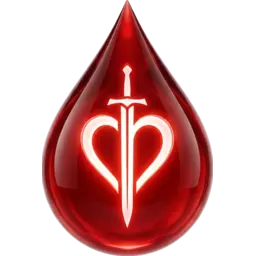
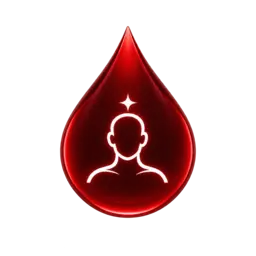
Ascendances : nouvelles gouttes d'Idan, fondu sur la goutte rubis, halo animé
- Les 11 gouttes à emblème d'Idan (Hostinger media/pictos/Ascendance), la goutte
  rubis, la goutte sombre (basique) et le halo animé remplacent les anciens Asc_*.jpg.
- Une goutte d'ascendance = trois calques : halo animé en boucle derrière, goutte
  rubis, puis la goutte à emblème qui apparaît en fondu d'une seconde. Pas de fondu
  rejoué quand le jeu redessine un écran déjà affiché.
- Le halo partout où la goutte est utilisée ; « Aucune » dans la création = goutte sombre.
- La création du capitaine utilise le même composant que le jeu (picto-ui.js +
  pictos.css) au lieu de construire ses propres images.

Claude-Session: https://claude.ai/code/session_01EeJJTXzBZEvAnWuDndFYuJ

diff --git a/prototype-web/creation-capitaine.js b/prototype-web/creation-capitaine.js
@@ -74,11 +74,11 @@ const roueLecture=(it,u)=>`<div class="rl-f"><b>Forces</b><p>${txt(it?.f||"")}</
 // Ce que chaque écran à choix propose : valeur, nom, image, textes ; lignes réservées (lt : description, lc : colonnes).
 const CHOIX={
   people:{attr:"people",cur:()=>S.people,lignes:1,lt:2,lc:2,
-    list:()=>DATA.peoples.map(p=>({v:p.nom,nom:p.nom,img:p.img,...p.copy}))},
+    list:()=>DATA.peoples.map(p=>({v:p.nom,nom:p.nom,pic:"people",...p.copy}))},
   culture:{attr:"culture",cur:()=>S.culture,lignes:2,lt:2,lc:3,
-    list:()=>(peopleOf()?.cultures||[]).map(c=>({v:c.nom,nom:c.nom,img:c.img,...c.copy}))},
+    list:()=>(peopleOf()?.cultures||[]).map(c=>({v:c.nom,nom:c.nom,pic:"culture",...c.copy}))},
   ascendance:{attr:"ascendance",cur:()=>S.ascendance,lignes:1,lt:2,lc:2,
-    list:()=>["",...(peopleOf()?.ascendances||[])].map(a=>a?{v:a,nom:a,img:medaillon("ascendance",a),...DATA.ancestryCopy[a]}:{v:"",nom:"Aucune",img:null,d:"Le sang de votre peuple, sans mélange."})},
+    list:()=>["",...(peopleOf()?.ascendances||[])].map(a=>a?{v:a,nom:a,pic:"ascendance",...DATA.ancestryCopy[a]}:{v:"",nom:"Aucune",pic:"ascendance",aucune:true,d:"Le sang de votre peuple, sans mélange."})},
   origin:{attr:"origin",cur:()=>S.origin,lecture:{titre:false},
     list:()=>(cultureOf()?.origins||[]).map(o=>({v:o,nom:ORIGIN_LABELS[o]||o,...DATA.originCopy[o]}))},
   alignment:{attr:"alignment",cur:()=>S.alignment,
@@ -89,7 +89,9 @@ const CHOIX={
       t?.parentElement.classList.toggle("apercu",(v!=null&&v!==S.avatar)||S.avatar==null); }},
 };
 const itemOf=(key,v)=>CHOIX[key].list().find(x=>x.v===v)||null;
-const medaillon=(kind,nom)=>`assets/pictos/${kind}-${slug(nom)}.webp`;
+// Les médaillons de peuple, de culture et d'ascendance : le picto du jeu (picto-ui.js), sans bulle (la fiche sur le
+// parchemin explique) ; la goutte sombre pour « Aucune » ascendance (Idan, 2026-11-15).
+const medaillon=x=>renderPicto(x.pic,x.v,{size:null,tip:false,none:Boolean(x.aucune)});
 // Les grands parchemins font la largeur de la bande des étapes (de « Nom » à « Récap »), mesurée par ajusteZoom.
 const BANDE="var(--bande,1200px)";
 // La compagnie : nom par défaut (le texte d'exemple du champ), soixante blasons.
@@ -114,7 +116,7 @@ document.addEventListener("focusin",e=>{ const m=e.target.closest?.("[data-lire]
 function ecranMedailles(key){
   const c=CHOIX[key],list=c.list(),cur=c.cur(),n=list.length,cols=n>6?Math.ceil(n/2):n,it=itemOf(key,cur);
   return `<div class="ecran" style="--l:860px;--lt:${c.lt};--lc:${c.lc}">
-    <div class="medailles lecture" style="--c:${cols};--w:${n===6?140:166}px;--p:${n===6?134:140}px;--lignes:${c.lignes}" role="group">${list.map((x,i)=>`<button type="button" class="medaille" style="--i:${i}" data-${c.attr}="${esc(x.v)}" data-lire="${esc(x.v)}" aria-pressed="${cur===x.v}">${x.img?`<img src="${x.img}" alt="">`:`<span class="aucune" aria-hidden="true"><i></i></span>`}<span class="nom">${txt(x.nom)}</span></button>`).join("")}</div>
+    <div class="medailles lecture" style="--c:${cols};--w:${n===6?140:166}px;--p:${n===6?134:140}px;--lignes:${c.lignes}" role="group">${list.map((x,i)=>`<button type="button" class="medaille" style="--i:${i}" data-${c.attr}="${esc(x.v)}" data-lire="${esc(x.v)}" aria-pressed="${cur===x.v}">${medaillon(x)}<span class="nom">${txt(x.nom)}</span></button>`).join("")}</div>
     <div class="parch fiche${it?"":" vide"}" id="fiche" aria-live="polite"><div id="lecture">${lectureHtml(it)}</div>${navHtml(STEPS[S.step].ok())}</div>
   </div>`;
 }
@@ -200,7 +202,7 @@ const RENDER={
   recap(){
     const w=S.weapon,sp=SPIRITS[S.spirit],tr=TRAITS[S.trait],ar=ARMORS.find(x=>x.key===S.armor);
     const p=peopleOf(),c=cultureOf(),nom=[S.prenom.trim(),S.nom.trim()].filter(Boolean).join(" ")||"—";
-    const picto=(img,label)=>`<figure>${img?`<img src="${img}" alt="">`:`<span class="aucune"></span>`}<figcaption>${txt(label)}</figcaption></figure>`;
+    const picto=(kind,nom)=>`<figure>${renderPicto(kind,nom,{size:null,tip:false})}<figcaption>${txt(nom)}</figcaption></figure>`;
     const rows=[["Origine",ORIGIN_LABELS[S.origin]||S.origin],["Alignement",S.alignment],["Arme favorite",w],
       ["Tenue",ar&&`<q>${txt(ar.q)}</q>`],["Esprit",sp&&`<q>${txt(sp.q)}</q>`],["Caractère",tr&&`<q>${txt(tr.q)}</q>`]];
     // Signé : le cachet se pose, puis la partie commence (le bouton y mène aussitôt).
@@ -208,7 +210,7 @@ const RENDER={
     return formulaire("Registre des capitaines",`<div class="registre2">
         <figure class="tableau"><span class="toile" style="${S.avatar?piedStyle(S.avatar):""}"></span></figure>
         <div><h2 class="r-entete"><span>Capitaine ${txt(nom)}</span></h2><div class="r-cols">
-        <section><div class="r-pictos">${p?picto(p.img,p.nom):""}${c?picto(c.img,c.nom):""}${S.ascendance?picto(medaillon("ascendance",S.ascendance),S.ascendance):""}</div>
+        <section><div class="r-pictos">${p?picto("people",p.nom):""}${c?picto("culture",c.nom):""}${S.ascendance?picto("ascendance",S.ascendance):""}</div>
           <dl>${rows.map(([k,v])=>`<dt>${k}</dt><dd>${v&&String(v).startsWith("<q>")?v:txt(v||"—")}</dd>`).join("")}</dl>
           <div class="signature"><span class="${S.signature?"trace":""}">${S.signe?txt(nom):""}</span><small>Signature</small></div></section>
         <i></i>

diff --git a/prototype-web/picto-ui.js b/prototype-web/picto-ui.js
@@ -4,6 +4,8 @@
 // scripts/build-pictos.sh). Le fichier porte le « slug » du nom de référence :
 // « Sang d’elfe » → assets/pictos/ascendance-sang-d-elfe.webp. Purement visuel.
 // Écoles de magie (Idan, 2026-11-15) : « Feu » → assets/pictos/ecole-feu.webp.
+// Le même composant pour tout le jeu, création du capitaine comprise (Idan, 2026-11-15 : « La création du capitaine
+// construit ses propres images : C'est pas normal ») ; ses styles communs : pictos.css.
 const PICTO_KINDS={people:"peuple",culture:"culture",ascendance:"ascendance",school:"ecole"};
 
 function pictoSlug(name){
@@ -26,13 +28,43 @@ function pictoDescription(kind,name){
   return rows.find(r=>r.nom===name)?.description||"";
 }
 
-// <img> prêt à insérer, ou "" sans nom (pas d'ascendance). Une image manquante se masque.
-function renderPicto(kind,name,{size="sm"}={}){
+// Les gouttes d'ascendance (Idan, 2026-11-15) : « la goutte arrive toujours par opacité d'une seconde sur la goutte rubis
+// puis on fait jouer en boucle le webp derrière pour faire le halo » ; le halo partout où l'on voit la goutte (« On tente
+// d'utiliser le halo magique partout ou on utilise la goutte de sang ») ; la goutte sombre pour « Aucune » ascendance.
+const PICTO_GOUTTE={halo:"assets/pictos/goutte-halo.webp",rubis:"assets/pictos/goutte-rubis.webp",sombre:"assets/pictos/goutte-sombre.webp"};
+
+// Le picto prêt à insérer, ou "" sans nom (pas d'ascendance). Une image manquante se masque.
+// size : xs, sm, md… (styles.css), ou null pour laisser la page le dimensionner (création du capitaine) ;
+// tip : false, sans la bulle au survol ; none : true, la goutte sombre d'une ascendance absente (« Aucune »).
+function renderPicto(kind,name,{size="sm",tip=true,none=false}={}){
+  const attr=text=>String(text).replace(/[&<>"]/g,ch=>({"&":"&amp;","<":"&lt;",">":"&gt;",'"':"&quot;"}[ch]));
+  const cls="picto"+(size?" picto-"+size:"");
+  if(kind==="ascendance"&&none) return `<img class="${cls} picto-goutte-sombre" src="${PICTO_GOUTTE.sombre}" alt="" loading="lazy">`;
   const src=pictoPath(kind,name);
   if(!src) return "";
-  const attr=text=>String(text).replace(/[&<>"]/g,ch=>({"&":"&amp;","<":"&lt;",">":"&gt;",'"':"&quot;"}[ch]));
-  return `<img class="picto picto-${size}" src="${src}" alt="" data-picto-kind="${kind}" data-picto-name="${attr(name)}" loading="lazy" onerror="this.remove()">`;
+  const data=` data-picto-kind="${kind}"`+(tip?` data-picto-name="${attr(name)}"`:"");
+  if(kind==="ascendance"){
+    return `<span class="${cls} picto-goutte"${data} data-goutte="${pictoSlug(name)}">`
+      +`<img class="goutte-halo" src="${PICTO_GOUTTE.halo}" alt="" loading="lazy">`
+      +`<img class="goutte-rubis" src="${PICTO_GOUTTE.rubis}" alt="" loading="lazy">`
+      +`<img class="goutte-embleme" src="${src}" alt="" loading="lazy" onerror="this.remove()"></span>`;
+  }
+  return `<img class="${cls}" src="${src}" alt=""${data} loading="lazy" onerror="this.remove()">`;
 }
+
+// Le fondu de l'emblème joue quand la goutte apparaît, pas quand le jeu redessine un écran déjà affiché : une goutte qui
+// remplace, dans la même mise à jour, une goutte de la même ascendance arrive sans fondu (is-still, pictos.css).
+function watchGouttes(root){
+  if(typeof MutationObserver==="undefined"||!root) return;
+  const gouttes=node=>node.nodeType!==1?[]:[...(node.matches(".picto-goutte")?[node]:[]),...node.querySelectorAll(".picto-goutte")];
+  new MutationObserver(records=>{
+    const gone=new Set();
+    for(const r of records) for(const n of r.removedNodes) for(const g of gouttes(n)) gone.add(g.dataset.goutte);
+    if(!gone.size) return;
+    for(const r of records) for(const n of r.addedNodes) for(const g of gouttes(n)) if(gone.has(g.dataset.goutte)) g.classList.add("is-still");
+  }).observe(root,{childList:true,subtree:true});
+}
+if(typeof document!=="undefined") watchGouttes(document.documentElement);
 
 function pictoTipElement(){
   let tip=document.getElementById("picto-tip");
@@ -69,4 +101,4 @@ function initializePictoTips(){
 }
 if(typeof document!=="undefined") initializePictoTips();
 
-if(typeof module!=="undefined"&&module.exports) module.exports={pictoSlug,pictoPath,renderPicto,pictoDescription};
+if(typeof module!=="undefined"&&module.exports) module.exports={pictoSlug,pictoPath,renderPicto,pictoDescription,PICTO_GOUTTE};

diff --git a/prototype-web/creation-capitaine.css b/prototype-web/creation-capitaine.css
@@ -150,17 +150,15 @@ body.entree .cachet{animation:sceller .55s var(--r3) cubic-bezier(.3,.6,.3,1) bo
 .medailles{position:relative;display:grid;grid-template-columns:repeat(var(--c,5),var(--w,150px));gap:14px 10px;justify-content:center;isolation:isolate}
 .medailles::before{content:"";position:absolute;inset:-26px -70px;z-index:-1;pointer-events:none;background:radial-gradient(closest-side,rgba(10,7,5,.62),rgba(7,5,4,.35) 60%,transparent)}
 .medaille{all:unset;cursor:pointer;display:grid;justify-items:center;align-content:start;gap:8px}
-.medaille img,.medaille .aucune{display:block;width:var(--p,140px);height:var(--p,140px);filter:saturate(.75) brightness(.84) drop-shadow(0 8px 9px rgba(0,0,0,.65));transition:filter .2s}
-.medaille .aucune{display:grid;place-items:center}
-.medaille .aucune::before{content:"";width:62px;height:62px;box-sizing:border-box;border-radius:50%;border:2px solid rgba(201,164,97,.55);background:radial-gradient(circle,rgba(30,22,16,.85),rgba(7,5,4,.94));box-shadow:inset 0 0 14px rgba(0,0,0,.85)}
-.medaille .aucune i{display:none}
-.medaille .aucune{position:relative}
+/* Le médaillon : le picto du jeu (picto-ui.js, pictos.css), une goutte animée pour les ascendances, la goutte sombre pour
+   « Aucune » (Idan, 2026-11-15). */
+.medaille .picto{display:block;width:var(--p,140px);height:var(--p,140px);filter:saturate(.75) brightness(.84) drop-shadow(0 8px 9px rgba(0,0,0,.65));transition:filter .2s}
 .medaille .nom{display:flex;align-items:flex-start;justify-content:center;height:calc(var(--lignes,1) * 1.12em);max-width:100%;text-align:center;text-wrap:balance;
   font:600 19px/1.12 var(--police-texte);color:var(--texte-inactif);text-shadow:0 2px 5px #000;transition:color .2s,text-shadow .2s}
-.medaille:hover img,.medaille:focus-visible img,.medaille:hover .aucune,.medaille:focus-visible .aucune{filter:saturate(1) brightness(1) drop-shadow(0 0 6px rgba(240,211,149,.35)) drop-shadow(0 8px 9px rgba(0,0,0,.65))}
+.medaille:hover .picto,.medaille:focus-visible .picto{filter:saturate(1) brightness(1) drop-shadow(0 0 6px rgba(240,211,149,.35)) drop-shadow(0 8px 9px rgba(0,0,0,.65))}
 .medaille:hover .nom,.medaille:focus-visible .nom{color:var(--ivoire)}
 .medaille:focus-visible{outline:none}
-.medaille[aria-pressed="true"] img,.medaille[aria-pressed="true"] .aucune{filter:saturate(1.05) brightness(1.08) drop-shadow(0 0 4px #ffe1ac) drop-shadow(0 0 14px rgba(240,211,149,.75)) drop-shadow(0 0 30px rgba(240,192,80,.4))}
+.medaille[aria-pressed="true"] .picto{filter:saturate(1.05) brightness(1.08) drop-shadow(0 0 4px #ffe1ac) drop-shadow(0 0 14px rgba(240,211,149,.75)) drop-shadow(0 0 30px rgba(240,192,80,.4))}
 .medaille[aria-pressed="true"] .nom{color:#f4e5c7;text-shadow:0 0 8px rgba(240,211,149,.85),0 0 18px rgba(240,211,149,.45),0 1px 3px #000}
 body.entree .medaille{animation:monte .55s calc(var(--r2) + var(--i) * 45ms) cubic-bezier(.2,.7,.2,1) both}
 
@@ -305,7 +303,7 @@ body.entree .carre{animation:monte .5s calc(var(--r2) + var(--i) * 35ms) cubic-b
 .r-titre{margin:0 0 10px;font:700 12.5px/1 var(--police-titre);letter-spacing:.16em;text-transform:uppercase;color:var(--encre-secondaire)}
 .r-pictos{display:flex;gap:18px;margin:0 0 30px}
 .r-pictos figure{margin:0;display:grid;justify-items:center;gap:5px;width:96px}
-.r-pictos img,.r-pictos .aucune{width:64px;height:64px;object-fit:contain;filter:drop-shadow(0 4px 5px rgba(40,22,8,.45))}
+.r-pictos .picto{display:block;width:64px;height:64px;object-fit:contain;filter:drop-shadow(0 4px 5px rgba(40,22,8,.45))}
 .r-pictos figcaption{font:600 15px/1.15 var(--police-texte);color:var(--encre);text-align:center;text-wrap:balance}
 .registre2 dl{margin:0;display:grid;grid-template-columns:auto 1fr;gap:6px 16px;align-items:baseline}
 .registre2 dt{font:700 11.5px/1.3 var(--police-titre);letter-spacing:.12em;text-transform:uppercase;color:var(--encre-secondaire)}

diff --git a/tests/pictos.test.js b/tests/pictos.test.js
@@ -19,6 +19,21 @@ assert.match(renderPicto("people","Nain",{size:"md"}),/class="picto picto-md" sr
 // Au survol (Idan, 2026-10-25) : nom et phrase d'explication, dans une bulle du jeu (plus de title du navigateur).
 assert.match(renderPicto("culture","Cités libres"),/data-picto-kind="culture" data-picto-name="Cités libres"/);
 assert.doesNotMatch(renderPicto("culture","Cités libres"),/title=/);
+// Une ascendance : la goutte en trois calques (halo animé, goutte rubis, emblème) ; « Aucune » : la goutte sombre ; sans
+// taille, la page dimensionne ; sans bulle, pas de data-picto-name (Idan, 2026-11-15).
+const goutte=renderPicto("ascendance","Sang de dragon",{size:"md"});
+assert.match(goutte,/^<span class="picto picto-md picto-goutte" data-picto-kind="ascendance" data-picto-name="Sang de dragon" data-goutte="sang-de-dragon">/);
+assert.deepEqual([...goutte.matchAll(/<img class="([^"]+)" src="([^"]+)"/g)].map(m=>m[1]+" "+m[2]),[
+  "goutte-halo assets/pictos/goutte-halo.webp","goutte-rubis assets/pictos/goutte-rubis.webp","goutte-embleme assets/pictos/ascendance-sang-de-dragon.webp"]);
+assert.match(renderPicto("ascendance","",{none:true,size:null}),/^<img class="picto picto-goutte-sombre" src="assets\/pictos\/goutte-sombre\.webp"/);
+assert.doesNotMatch(renderPicto("people","Nain",{size:null,tip:false}),/data-picto-name|picto-sm/);
+const css=fs.readFileSync(path.join(ROOT,"prototype-web","pictos.css"),"utf8");
+assert.match(css,/\.picto-goutte>\.goutte-embleme\{animation:goutte-apparait 1s/,"l'emblème arrive en une seconde");
+assert.match(css,/\.picto-goutte\.is-still>\.goutte-embleme\{animation:none\}/,"pas de fondu quand le jeu redessine");
+for(const page of ["index.html","creation-capitaine.html"]){
+  const html=fs.readFileSync(path.join(ROOT,"prototype-web",page),"utf8");
+  assert.ok(html.includes('href="pictos.css"')&&html.includes('src="picto-ui.js"'),page+" : le même composant de pictos");
+}
 global.game={referenceData:{captainCreationCopy:JSON.parse(fs.readFileSync(path.join(ROOT,"data","reference","captain-creation-copy.json"),"utf8"))}};
 assert.match(pictoDescription("people","Humain"),/^Polyvalent et adaptable/);
 assert.ok(pictoDescription("ascendance","Sang divin"));
@@ -38,6 +53,9 @@ const expected=[
   ...names("ancestries.json").map(n=>pictoPath("ascendance",n)),
   ...[...new Set(JSON.parse(fs.readFileSync(path.join(ROOT,"data","reference","spells.json"),"utf8")).rows.map(r=>r.ecole).filter(Boolean))].map(n=>pictoPath("school",n))
 ];
+// Les trois calques des gouttes d'ascendance (Idan, 2026-11-15) : le halo animé, la goutte rubis, la goutte sombre.
+const {PICTO_GOUTTE}=require("../prototype-web/picto-ui.js");
+expected.push(...Object.values(PICTO_GOUTTE));
 const dir=path.join(ROOT,"prototype-web","assets","pictos");
 for(const p of expected) assert.ok(fs.existsSync(path.join(ROOT,"prototype-web",p)),"picto manquant : "+p);
 const files=fs.readdirSync(dir).map(f=>"assets/pictos/"+f).sort();

diff --git a/prototype-web/intro-ui.js b/prototype-web/intro-ui.js
@@ -82,11 +82,10 @@ function captainCreationData(){
   const ref=game.referenceData||{},copy=ref.captainCreationCopy||{};
   const texts=(section,name)=>{ const r=(copy[section]||[]).find(x=>x.nom===name); return r?{d:r.description,f:r.force,w:r.faiblesse}:{}; };
   const bySection=section=>Object.fromEntries((copy[section]||[]).map(r=>[r.nom,texts(section,r.nom)]));
-  const medallion=(kind,name)=>`assets/pictos/${kind}-${pictoSlug(name)}.webp`;
   return {
-    peoples:peopleNames().map(people=>({nom:people,img:medallion("peuple",people),copy:texts("peoples",people),
+    peoples:peopleNames().map(people=>({nom:people,copy:texts("peoples",people),
       ascendances:compatibleAscendances(people),
-      cultures:culturesForPeople(people).map(culture=>({nom:culture,img:medallion("culture",culture),copy:texts("cultures",culture),
+      cultures:culturesForPeople(people).map(culture=>({nom:culture,copy:texts("cultures",culture),
         origins:originsForCulture(culture),alignment:MercenairesCreation.usualAlignment(ref,people,culture)}))})),
     weapons:(ref.weapons?.rows||[]).map(w=>({nom:w.nom,famille:weaponFamily(w)})).filter(w=>w.famille&&w.famille!=="Boucliers"),
     grid:ref.alignmentGeneration?.grid||[],

diff --git a/prototype-web/pictos.css b/prototype-web/pictos.css
@@ -1,0 +1,16 @@
+/* Pictos : styles communs au jeu (index.html) et à la création du capitaine (creation-capitaine.html), avec le même
+   composant (picto-ui.js, renderPicto). Idan, 2026-11-15 : « La création du capitaine construit ses propres images :
+   C'est pas normal ». */
+
+/* Gouttes d'ascendance (Idan, 2026-11-15) : trois calques de la même toile, le halo animé derrière, la goutte rubis,
+   puis la goutte à emblème qui « arrive toujours par opacité d'une seconde » ; pas de fondu quand le jeu redessine un
+   écran déjà affiché (is-still, picto-ui.js). Sans animation pour qui les a coupées dans son système. */
+.picto-goutte{position:relative;display:inline-block}
+.picto-goutte>img{position:absolute;inset:0;width:100%;height:100%;margin:0;object-fit:contain;filter:none}
+.picto-goutte>.goutte-embleme{animation:goutte-apparait 1s ease-out both}
+.picto-goutte.is-still>.goutte-embleme{animation:none}
+@keyframes goutte-apparait{from{opacity:0}to{opacity:1}}
+@media (prefers-reduced-motion:reduce){
+  .picto-goutte>.goutte-halo{display:none}
+  .picto-goutte>.goutte-embleme{animation:none}
+}

diff --git a/tests/captain-creation-ui.test.js b/tests/captain-creation-ui.test.js
@@ -42,10 +42,11 @@ assert.deepEqual(Object.keys(win.captainCreationBridge).sort(),["data","exit","f
 const data=ui.captainCreationData();
 assert.equal(data.peoples.length,10);
 for(const p of data.peoples){
-  assert.ok(fs.existsSync(path.join(WEB,p.img)),"médaillon "+p.img);
+  // Les médaillons de la création sont les pictos du jeu (picto-ui.js) : plus de chemin d'image dans les données.
+  assert.ok(!("img" in p)&&fs.existsSync(path.join(WEB,"assets/pictos/peuple-"+pictoSlug(p.nom)+".webp")),"picto "+p.nom);
   assert.ok(p.copy.d&&p.cultures.length,p.nom);
   for(const c of p.cultures){
-    assert.ok(fs.existsSync(path.join(WEB,c.img)),"médaillon "+c.img);
+    assert.ok(!("img" in c)&&fs.existsSync(path.join(WEB,"assets/pictos/culture-"+pictoSlug(c.nom)+".webp")),"picto "+c.nom);
     assert.ok(c.origins.length,c.nom);
     assert.ok(reference.alignments.rows.some(a=>a.nom===c.alignment),"alignement usuel de "+c.nom);
   }

diff --git a/prototype-web/creation-capitaine.html b/prototype-web/creation-capitaine.html
@@ -7,6 +7,7 @@
   <!-- Création du capitaine (Idan, 2026-11-12/13) : page à part, ouverte en plein écran par le jeu (intro-ui.js) dans un
        cadre ; elle lit les données du jeu et rend le résultat par window.parent.captainCreationBridge. -->
   <link rel="stylesheet" href="https://fonts.googleapis.com/css2?family=Cinzel:wght@500;600;700;800&family=Pinyon+Script&family=EB+Garamond:ital,wght@0,400;0,500;0,600;0,700;0,800;1,500;1,600&display=swap">
+  <link rel="stylesheet" href="pictos.css">
   <link rel="stylesheet" href="creation-capitaine.css">
 </head>
 <body>
@@ -28,6 +29,7 @@
   </main>
 </div>
 <button type="button" class="quitter" id="quitter" title="Revenir au menu" aria-label="Revenir au menu">✕</button>
+<script src="picto-ui.js"></script>
 <script src="creation-capitaine.js"></script>
 </body>
 </html>

diff --git a/prototype-web/index.html b/prototype-web/index.html
@@ -9,6 +9,7 @@
   <link rel="preconnect" href="https://fonts.gstatic.com" crossorigin />
   <link rel="stylesheet" href="https://fonts.googleapis.com/css2?family=Cinzel:wght@600;700&family=EB+Garamond:ital,wght@0,500;0,600;0,700;1,500&display=swap" />
   <link rel="stylesheet" href="styles.css" />
+  <link rel="stylesheet" href="pictos.css" />
 </head>
 <body data-screen="home">
   <aside id="game-hud" class="game-hud hidden" aria-label="Interface de jeu">

diff --git a/assets-src/Picto/Ascendance/README.md b/assets-src/Picto/Ascendance/README.md
@@ -1,0 +1,29 @@
+# Gouttes d'ascendance — masters d'Idan (2026-11-15)
+
+Déposées sur Hostinger dans `media/pictos/Ascendance/` : PNG 1254 × 1254, des gouttes « parfaitement de la même taille et
+avec un visuel plus lisible ». Toile entière, sans recadrage (comme les peuples) : le halo animé se pose exactement autour
+de chaque goutte. Réduites par `scripts/build-pictos.sh` en `prototype-web/assets/pictos/` (256 × 256).
+
+Dans le jeu, une ascendance s'affiche en trois calques (`prototype-web/goutte-ui.js`) : le halo animé derrière, la goutte
+rubis, puis la goutte à emblème qui apparaît en fondu d'une seconde (Idan : « la goutte arrive toujours par opacité d'une
+seconde sur la goutte rubis puis on fait jouer en boucle le webp derrière pour faire le halo »).
+
+| Fichier | Rôle | Fichier d'origine sur Hostinger |
+|---|---|---|
+| `ascendance-sang-d-orc.png` | Sang d'orc | `Sigle orc blanc sur goutte rouge-1.png` |
+| `ascendance-sang-divin.png` | Sang divin | `Étoile divine sur goutte rouge-2.png` |
+| `ascendance-sang-de-demon.png` | Sang de démon | `Goutte rouge, emblème démoniaque-3.png` |
+| `ascendance-sang-de-dryade.png` | Sang de dryade | `Goutte rouge ornée d’un arbre blanc-4.png` |
+| `ascendance-sang-de-troll.png` | Sang de troll | `Goutte rouge, emblème de troll-5.png` |
+| `ascendance-sang-de-dragon.png` | Sang de dragon | `Goutte rouge, emblème de dragon-6.png` |
+| `ascendance-sang-de-djinn.png` | Sang de djinn | `Goutte rubis, emblème de djinn.png` |
+| `ascendance-sang-d-elfe.png` | Sang d'elfe | `Goutte rouge à l’emblème elfe-8.png` |
+| `ascendance-sang-de-sirene.png` | Sang de sirène | `Emblème sirène sur goutte rouge-9.png` |
+| `ascendance-sang-feerique.png` | Sang féerique | `Emblème de fée sur goutte rouge-10.png` |
+| `ascendance-sang-d-humain.png` | Sang d'humain | `Goutte de rubis à emblème humain-11.png` |
+| `goutte-rubis.png` | La goutte sous l'emblème | `Goutte de rubis brillante sur transparence.png` |
+| `goutte-sombre.png` | « Aucune » ascendance (création du capitaine) | `sang_basique.png` |
+| `goutte-halo.webp` | Le halo animé (80 images, 4 s, 512 px ; réduit à 256 px, 10 Mo → 0,8 Mo) | `halo-magique-anime/halo-magique.webp` |
+
+Les anciens masters JPG sur fond blanc (détourés par le script) sont remplacés ; ils restent dans l'historique git. Le halo
+fixe (`Halo magique cramoisi et blanc.png`) ne sert pas.
